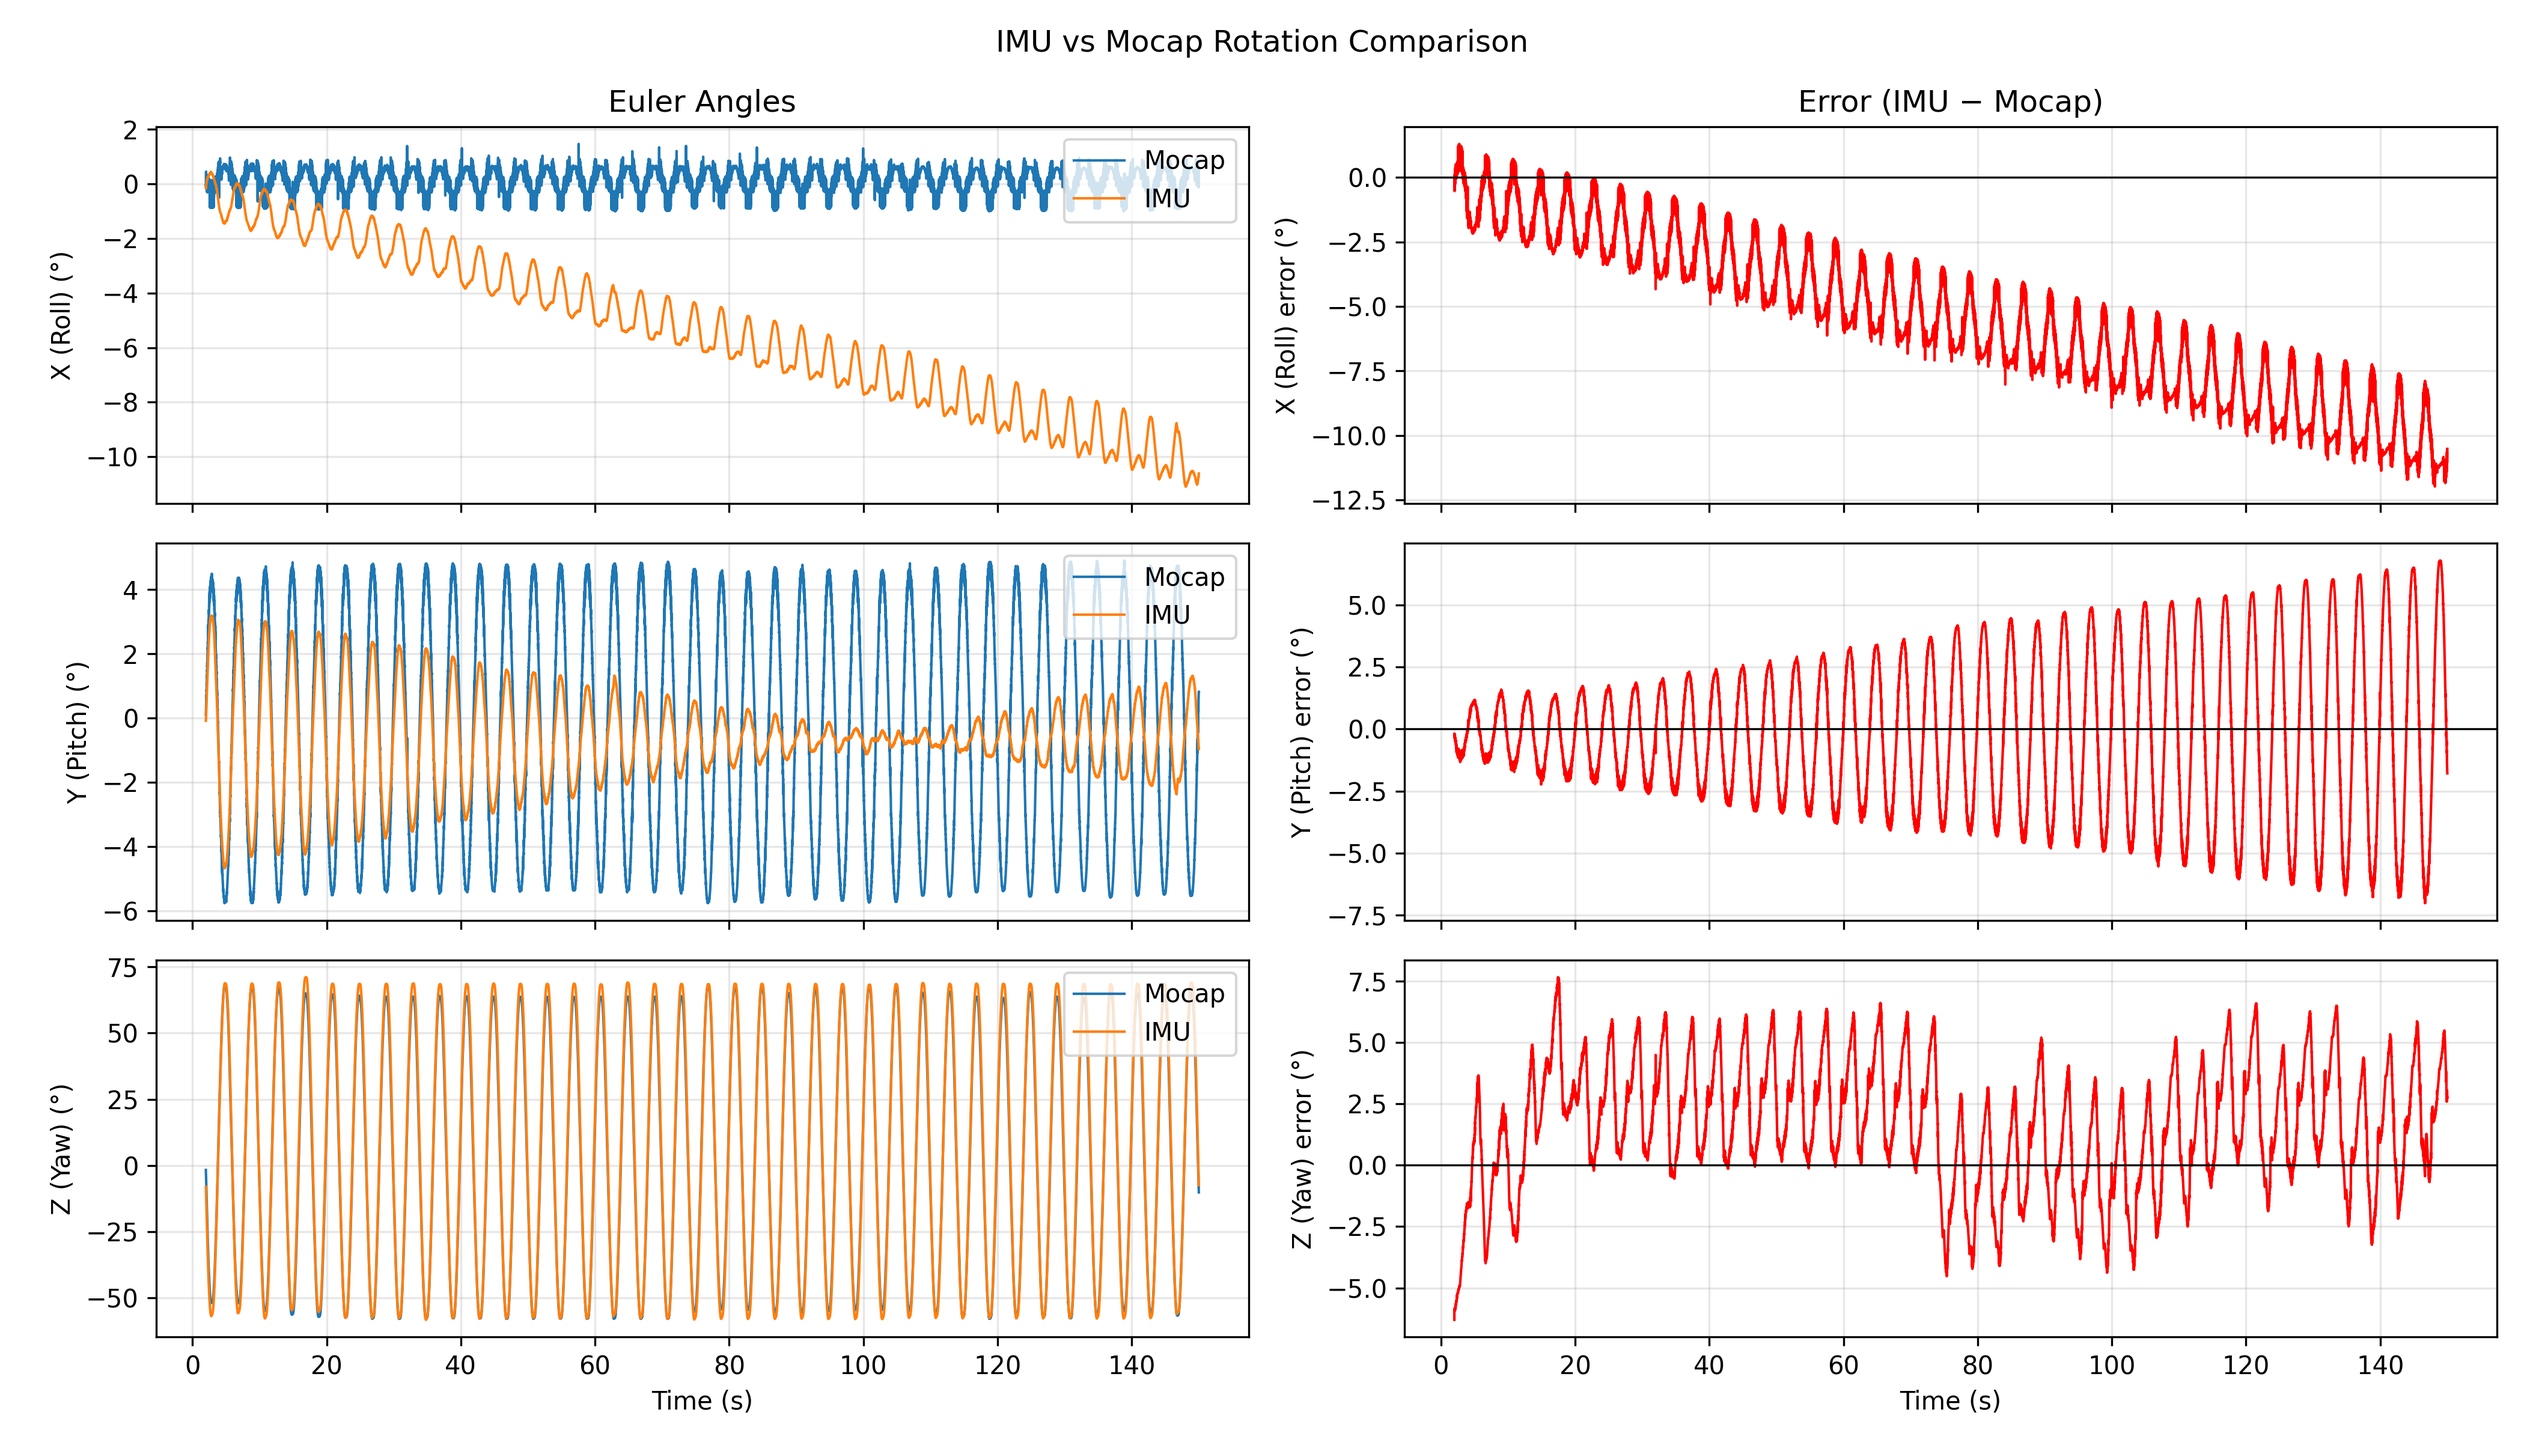
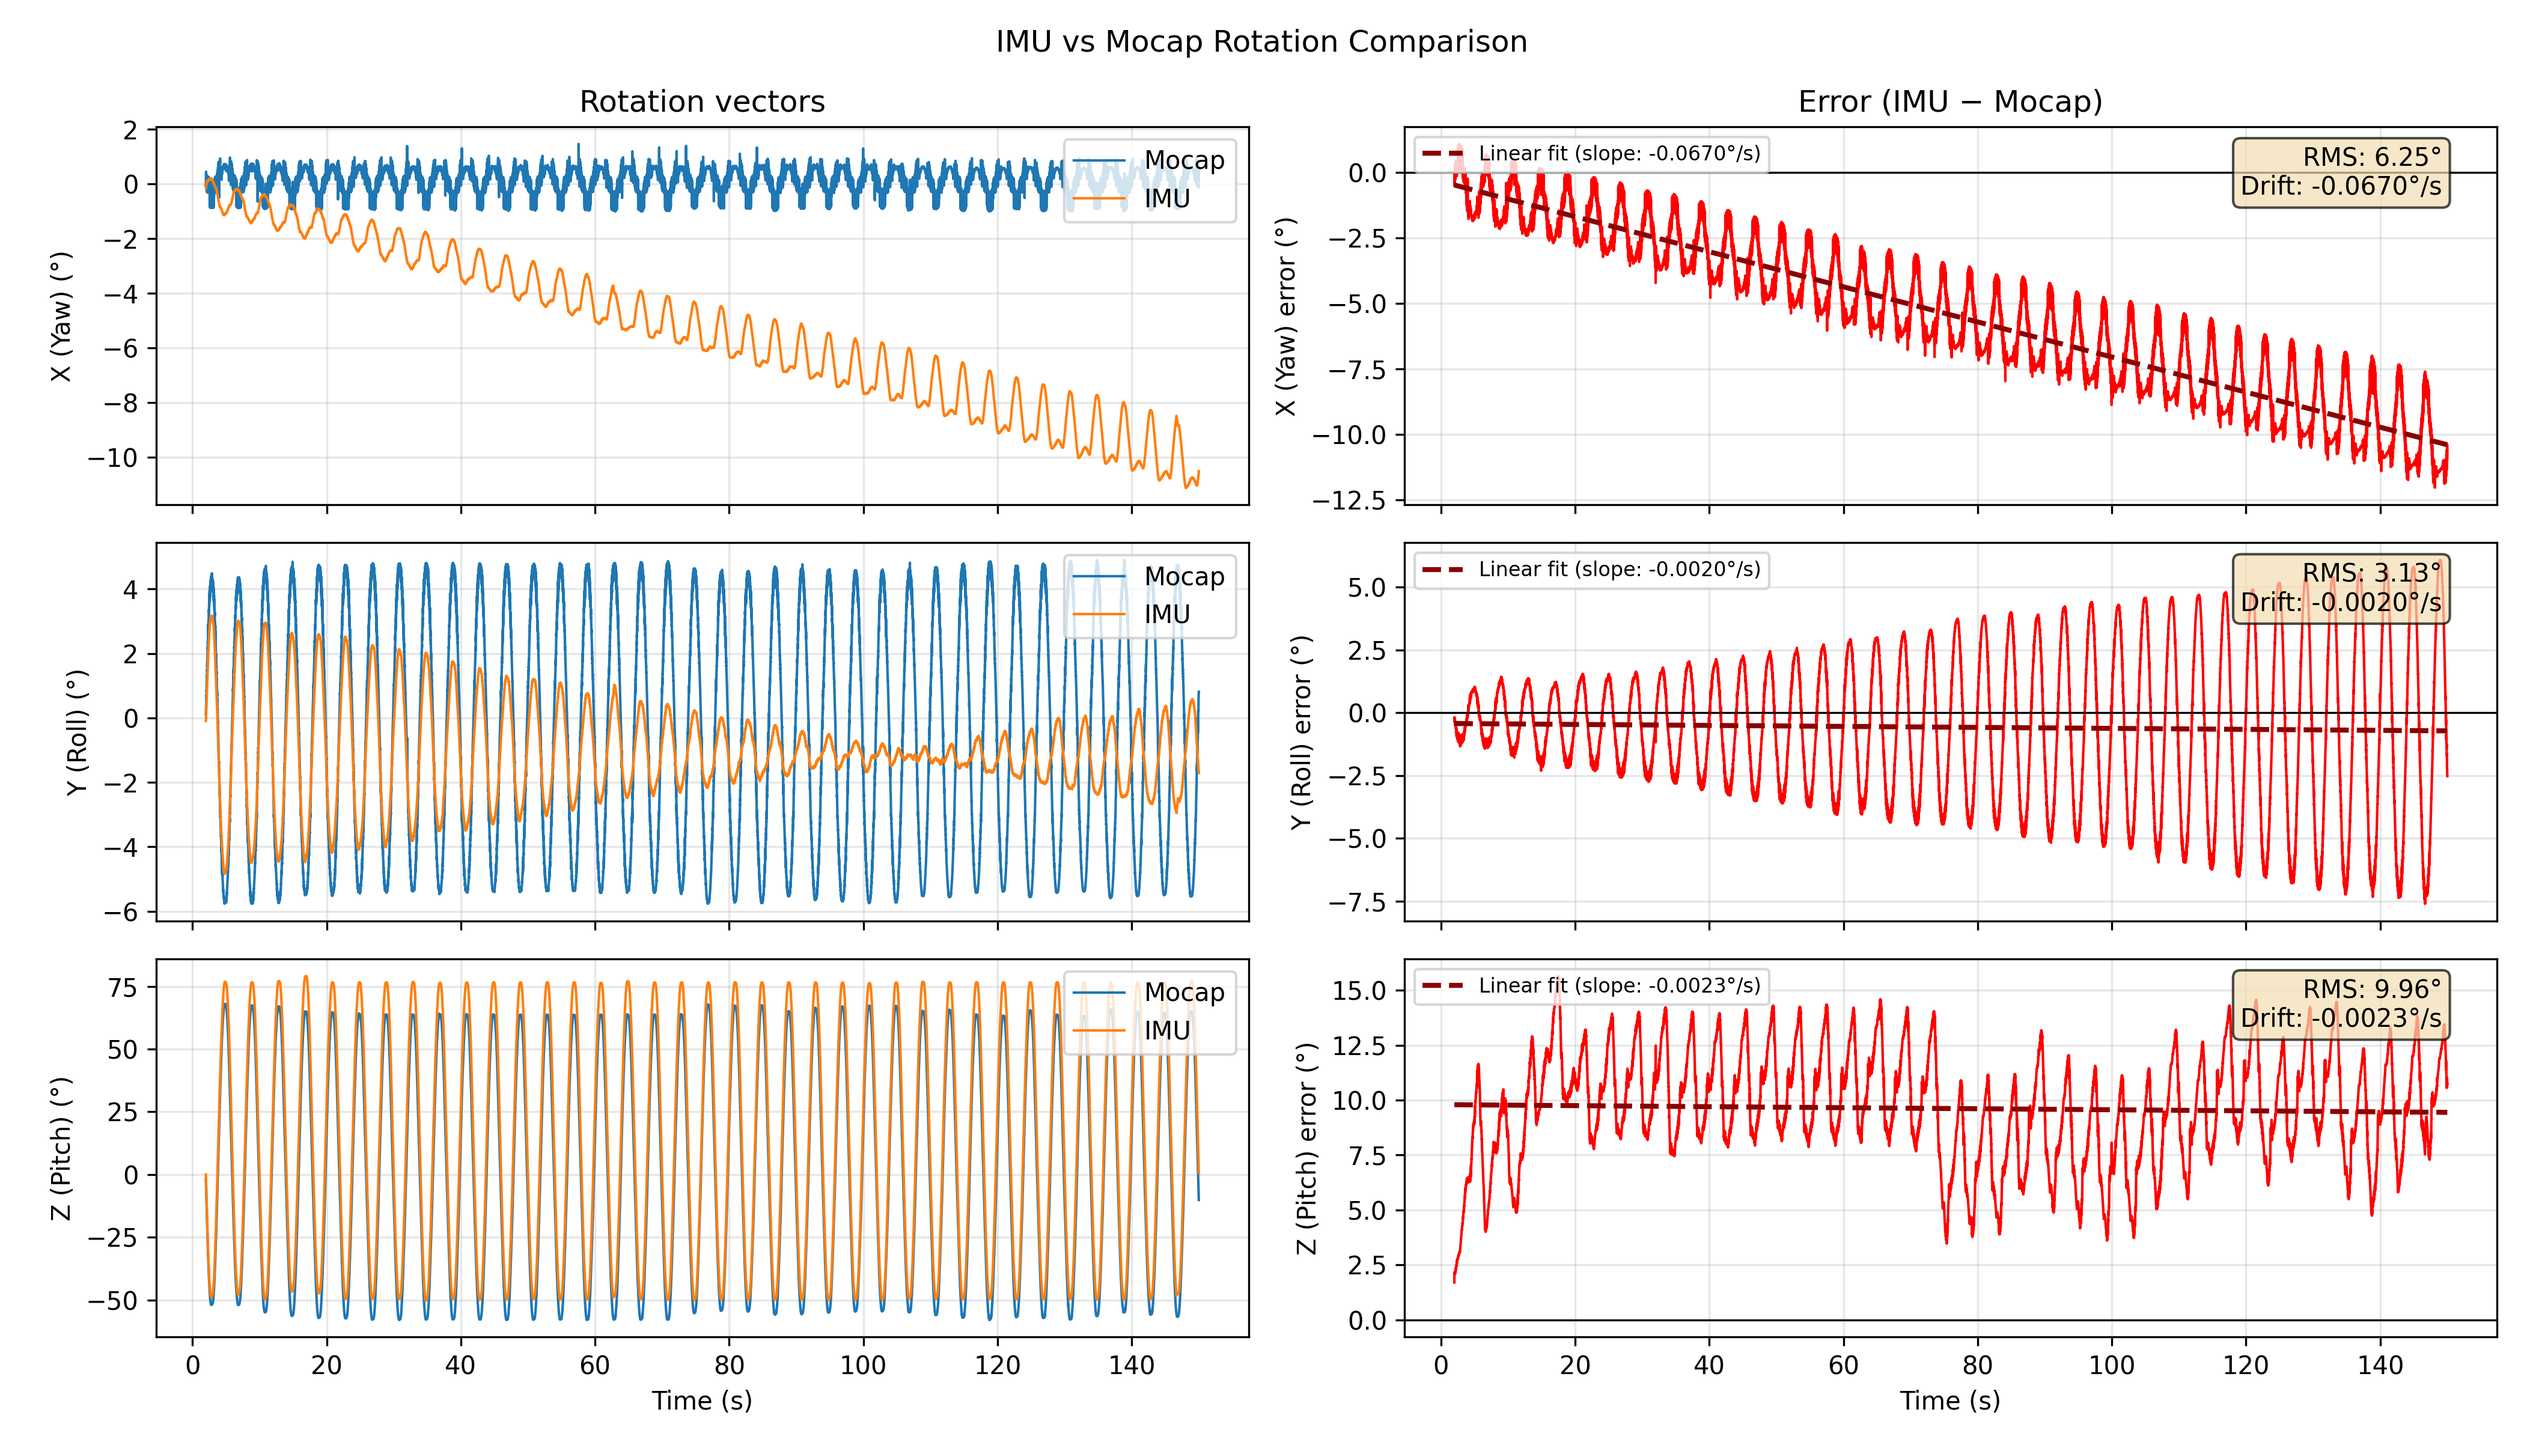
add RMS and fit lines

diff --git a/verification/plot.py b/verification/plot.py
@@ -28,8 +28,9 @@ def plot_rotation_comparison(
     mocap_rotvec = np.degrees(mocap_rotations.as_rotvec())
     mocap_rotvec[:, [0, 2]] = mocap_rotvec[:, [2, 0]] # swap x and z axis of mocap
     error = imu_rotvec - mocap_rotvec
+    rms = np.sqrt(np.mean(error**2, axis=0))
 
-    axis_labels = ["X (Roll)", "Y (Pitch)", "Z (Yaw)"]
+    axis_labels = ["X (Yaw)", "Y (Roll)", "Z (Pitch)"]
     t = mocap_timestamps
 
     fig, axes = plt.subplots(3, 2, figsize=(14, 8), sharex=True)
@@ -48,10 +49,23 @@ def plot_rotation_comparison(
         ax = axes[i, 1]
         ax.plot(t, error[:, i], color="red", linewidth=1)
         ax.axhline(0, color="black", linewidth=0.8)
+
+        # Fit linear line to error (drift)
+        coeffs = np.polyfit(t, error[:, i], 1)
+        slope = coeffs[0]  # slope in degrees/second
+        fit_line = np.polyval(coeffs, t)
+        ax.plot(t, fit_line, color="darkred", linewidth=2, linestyle="--", label=f"Linear fit (slope: {slope:.4f}°/s)")
+
         ax.set_ylabel(f"{label} error (°)")
         ax.grid(True, alpha=0.3)
+        ax.legend(loc="upper left", fontsize=8)
 
-    axes[0, 0].set_title("Euler Angles")
+        # Add RMS and drift text with semi-transparent background
+        text_str = f"RMS: {rms[i]:.2f}°\nDrift: {slope:.4f}°/s"
+        ax.text(0.95, 0.95, text_str, transform=ax.transAxes, ha='right', va='top',
+                bbox=dict(boxstyle='round', facecolor='wheat', alpha=0.7))
+
+    axes[0, 0].set_title("Rotation vectors")
     axes[0, 1].set_title("Error (IMU − Mocap)")
 
     for ax in axes[-1]:

diff --git a/verification/script.py b/verification/script.py
@@ -189,7 +189,6 @@ class Trials(Enum):
         trim_mocap_end=150.0,
         trim_imu=3798.022202,
         gain=0.002250,
-        offset=8.0
     )
     BNO055_test01 = TrialConfig(
         mocap_filepath= root /"data/mocap/test rig run 03 bno055jetson 01.csv",
@@ -198,7 +197,6 @@ class Trials(Enum):
         trim_mocap_end=175.0,
         trim_imu=3169.238798,
         gain=0.002250,
-        offset = 2.0,
     )
     LSM = TrialConfig(
         mocap_filepath= root /"data/mocap/test rig run 06 lsmJetson.csv",
@@ -214,16 +212,16 @@ class Trials(Enum):
         mocap_filepath= root / "data/mocap/test rig run 01 arduino01.csv",
         imu_filepath= root / "data/test_recordings/arduino.csv",
         trim_mocap_start=899,
-        trim_mocap_end=180.0,
+        trim_mocap_end=160.0,
         gain=0.0,
         trim_imu=6.62,
-        offset= 4.0,
     )
+
 
 if __name__ == "__main__":
     setup_logger(log_level="INFO")
     ## Change trial here ##
-    trial_config = Trials.BNO055_test01
+    trial_config = Trials.ARDUINO1
     ## --------------------##
     trim = trial_config.value.trim_imu
     gain = trial_config.value.gain
